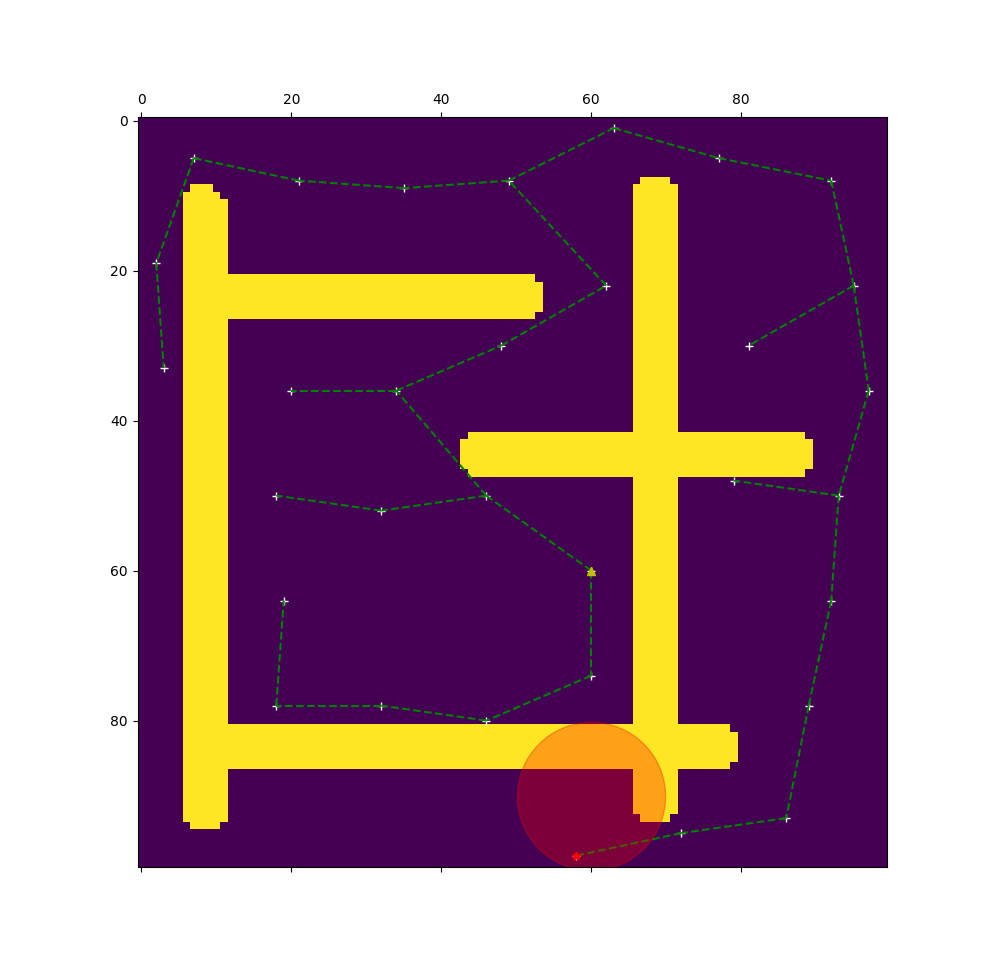
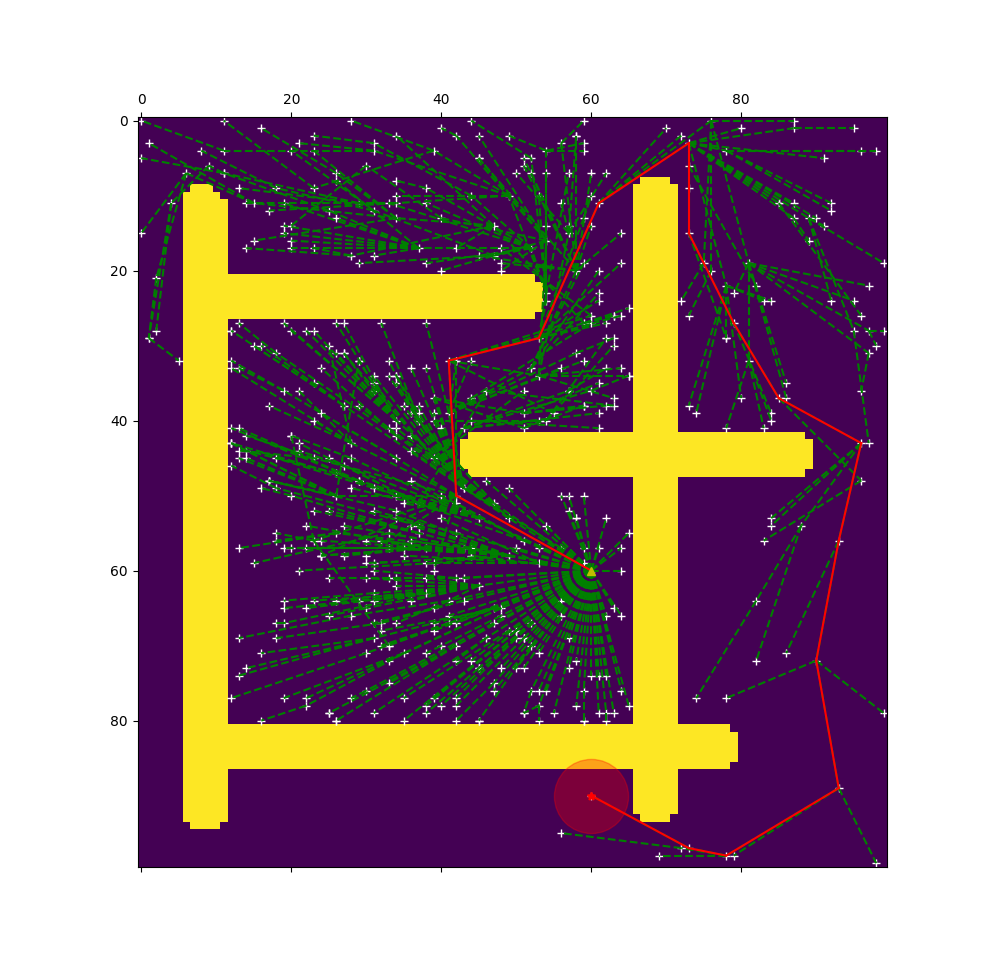
Everything working, need to cross check results

diff --git a/Lab4/RRT.py b/Lab4/RRT.py
@@ -19,8 +19,7 @@ class RRT:
     def distance(self, node1, node2):
         return math.sqrt((node2.coord[0] - node1.coord[0])**2 + (node2.coord[1] - node1.coord[1])**2)
 
-    def get_pixels_between_points(self,point1, point2): ##accepts coords
-
+    def get_pixels_between_points(self, point1, point2):  # Accepts coords
         collision = False
         num_steps = max(abs(point2[0] - point1[0]), abs(point2[1] - point1[1])) + 1
 
@@ -31,27 +30,22 @@ class RRT:
         # Combine x and y into pixel coordinates
         pixels = list(zip(np.round(x_values).astype(int), np.round(y_values).astype(int)))
         q_nodes = []
-        for i,p in enumerate(pixels):
-            if self.map.grid[p]!=0:
-                collision= True
+
+        for i, p in enumerate(pixels):
+            if 0 <= p[0] < self.map.grid.shape[0] and 0 <= p[1] < self.map.grid.shape[1]:
+                if self.map.grid[p] != 0:
+                    collision = True
+                    del pixels[i:]
+                    return collision, q_nodes
+            else:
+                collision = True  # Out-of-bounds considered as collision
                 del pixels[i:]
-                return collision,q_nodes
-            if(i+1)% self.step_size==0:
+                return collision, q_nodes
+
+            if (i + 1) % self.step_size == 0:
                 q_nodes.append(p)
 
-        return collision,q_nodes
-    
-    def draw_path(self,path,random_node,color='b',show=False):
-        path = list(zip(*path))
-        plt.matshow(self.map.grid, origin='upper')
-        plt.scatter(path[1], path[0], s=50, marker=".", c=color)
-        if show:
-            plt.scatter(random_node[1], random_node[0], c="w",s=30, marker="o")
-            plt.scatter(self.goal.y, self.goal.x, c="r", marker=(5, 1))
-            plt.scatter(self.start.y, self.start.x, s=50, marker="^", c="y")
-            plt.colorbar()
-            plt.show()
-        
+        return collision, q_nodes
 
     def get_random_node(self,p):
         if random.random() < p:
@@ -83,23 +77,47 @@ class RRT:
                 # self.map.plot(states=self.tree,edges=self.get_edges(self.tree),path=[],goal=self.goal.coord,goal_threshold=self.goal_threshold)
                 return self.tree, self.get_edges(self.tree)
         return None, None
-########################################Testing#####################################################
-    # def cost_optim(self,path,random_node):
-    #     for n in path:
-    #         new_node = Node(n[0],n[1]) 
-    #         nearest = self.nearest_node(random_node)
-    #         new_node.parent = nearest
-    #         self.tree.append(new_node)
-    #         if self.distance(new_node, self.goal) <= self.goal_threshold:
-    #             print("Goal reached")
-    #             # self.map.plot(states=self.tree,edges=self.get_edges(self.tree),path=[],goal=self.goal.coord,goal_threshold=self.goal_threshold)
-    #             return self.tree, self.get_edges(self.tree)
-    #     return None, None
-########################################Testing#####################################################
+    
     def cost_optim(self):
-        """
-        Optimized RRT* implementation for cost minimization.
-        """
+        
+        self.Cost[self.start.coord] = 0   
+        self.start.g = 0  
+        for _ in range(self.max_iter):
+            # Sample a random node
+            random_node = self.get_random_node(0.2)
+
+            # Find the nearest node in the tree
+            nearest = self.nearest_node(random_node)
+
+            # Steer towards the random node and check for collision
+            qnew = self.new_config(nearest, random_node, self.step_size)
+            collision, _ = self.get_pixels_between_points(qnew.coord, nearest.coord)
+            if collision:
+                continue  # Skip if the path is not collision-free
+
+            # Initialize the cost of the new node
+            qnew.g = nearest.g + self.distance(nearest, qnew)
+            qnew.parent = nearest
+
+            # Check for a better parent (cost optimization)
+            for node in self.tree:
+                if node is not qnew.parent and self.distance(node, qnew) <= self.step_size:
+                    collision, _ = self.get_pixels_between_points(node.coord, qnew.coord)
+                    if not collision and node.g + self.distance(node, qnew) < qnew.g:
+                        qnew.g = node.g + self.distance(node, qnew)
+                        qnew.parent = node
+
+            # Add the new node to the tree
+            self.tree.append(qnew)
+
+            # Check if the goal is reached
+            if self.distance(qnew, self.goal) <= self.goal_threshold:
+                print("Goal reached")
+                return self.tree, self.get_edges(self.tree)
+
+        raise AssertionError("Path not found\n")
+
+    def rewire(self):
         self.Cost[self.start.coord] = 0  # Set cost of the start node to 0
         self.start.g = 0  # Initialize g value for the start node
 
@@ -111,52 +129,43 @@ class RRT:
             nearest = self.nearest_node(random_node)
 
             # 3. Steer towards the random node and check for collision
-            collision, path = self.get_pixels_between_points(nearest.coord, random_node.coord)
+            qnew = self.new_config(nearest, random_node, self.step_size)
+            collision, _ = self.get_pixels_between_points(qnew.coord, nearest.coord)
             if collision:
                 continue  # Skip if the path is not collision-free
 
-            for n in path:
-                new_node = Node(n[0], n[1])
-                nearest = self.nearest_node(random_node)
-                new_node.parent = nearest
-                # Compute the cost of reaching the new node
-                new_cost = self.Cost[nearest.coord] + self.distance(nearest, new_node)
+            # 4. Initialize the cost of the new node
+            qnew.g = nearest.g + self.distance(nearest, qnew)
+            qnew.parent = nearest
 
-                # Update if this path is better
-                if new_node.coord not in self.Cost or new_cost < self.Cost[new_node.coord]:
-                    self.Cost[new_node.coord] = new_cost
-                    self.tree.append(new_node)
-                    # self.map.plot(states=self.tree,edges=self.get_edges(self.tree),path=[],goal=self.goal.coord,goal_threshold=self.goal_threshold)
-                    
-                    # 4. Check if the goal is reached
-                    if self.distance(new_node, self.goal) <= self.goal_threshold:
-                        print("Goal reached")
-                        return self.tree, self.get_edges(self.tree)
-                    # 5. Rewire the tree self
-                    self.rewire(new_node)
-                    # self.map.plot(states=self.tree,edges=self.get_edges(self.tree),path=[],goal=self.goal.coord,goal_threshold=self.goal_threshold)
-                    
+            # 5. Check for a better parent (cost optimization)
+            for node in self.tree:
+                if node is not qnew.parent and self.distance(node, qnew) <= self.step_size:
+                    collision, _ = self.get_pixels_between_points(node.coord, qnew.coord)
+                    if not collision and node.g + self.distance(node, qnew) < qnew.g:
+                        qnew.g = node.g + self.distance(node, qnew)
+                        qnew.parent = node
+
+            # 6. Add the new node to the tree
+            self.tree.append(qnew)
+
+            # 7. Rewire the tree to ensure optimality
+         
+            for node in self.tree:
+                if node is not qnew and self.distance(node, qnew) <= self.step_size:
+                    collision, _ = self.get_pixels_between_points(qnew.coord, node.coord)
+                    if not collision and qnew.g + self.distance(qnew, node) < node.g:
+                        node.g = qnew.g + self.distance(qnew, node)
+                        qnew.parent = node
+                        # del self.tree[-1]
+                        self.tree.append(qnew)
+             
+            # 8. Check if the goal is reached
+            if self.distance(qnew, self.goal) <= self.goal_threshold:
+                print("Goal reached")
+                return self.tree, self.get_edges(self.tree)
+
         raise AssertionError("Path not found\n")
-
-    def rewire(self, new_node):
-        """
-        Rewire the tree to minimize the cost of the path to each node.
-        After adding a new node, check if any nearby nodes can be connected to it 
-        to provide a lower-cost path.
-        """
-        neighbors = self.find_nearby_nodes(new_node)
-
-        for nearby_node in neighbors:
-            # Check if the path is collision-free
-            if not self.is_collision(new_node.coord, nearby_node.coord):
-                # Calculate the new cost to reach the nearby node through the new node
-                new_cost = self.Cost[new_node.coord] + self.distance(new_node, nearby_node)
-
-                # Check if the new cost is better
-                if new_cost < self.Cost[nearby_node.coord]:
-                    # Update the parent of the nearby node
-                    self.Cost[nearby_node.coord] = new_cost
-                    nearby_node.parent = new_node
 
     def rrt_star(self,node_expansion=False,cost_optim=False,rewire=False):
         self.Cost[self.start.coord] = 0  # Initialize cost of start node
@@ -171,20 +180,19 @@ class RRT:
                 return node,edges
             
         for _ in range(self.max_iter):
-            # 1. Sample a random node
+            # Sample a random node
             random_node = self.get_random_node(0.2) 
 
-            # 2. Find the nearest node in the tree
+            #Find the nearest node in the tree
             nearest = self.nearest_node(random_node)
             
-            # 3. Steer towards the random node and check for collision
+            # Steer towards the random node and check for collision
             _,path = self.get_pixels_between_points(nearest.coord, random_node.coord)
             
             if node_expansion:
                 node,edges= self.node_exp(path,random_node)
                 if edges:
                     return node,edges
-            
           
         raise AssertionError("Path not found\n")
 
@@ -199,22 +207,7 @@ class RRT:
                     parent = n
                     min_cost = cost
         return parent, min_cost
-########################################Testing#####################################################
-    # def rewire(self, neighbors, new_node):
-    #     print("Rewiring nodes...")
-    #     for neighbor in neighbors:
-    #         new_cost = self.Cost[neighbor.coord] + self.distance(new_node, neighbor)
-    #         print(f"Checking neighbor {neighbor.coord}")
-    #         print(f"Current cost: {self.Cost[neighbor.coord]}, New cost: {new_cost}")
-    #         print(f"Collision: {self.is_collision(new_node.coord, neighbor.coord)}")
-
-    #         if self.Cost[new_node.coord]<new_cost and not self.is_collision(new_node.coord, neighbor.coord):
-    #             print(f"Rewiring neighbor {neighbor.coord} to new parent {new_node.coord}")
-    #             new_node.parent = neighbor
-    #             self.Cost[new_node.coord] = new_cost
-    #             return new_node
-########################################Testing#####################################################
-
+    
     def get_edges(self,nodes):
         edges = []
         for node in nodes:

diff --git a/Lab4/Lab4.py b/Lab4/Lab4.py
@@ -7,7 +7,11 @@ if __name__ == "__main__":
     
 
     # Choose a map 0-3
-    map_number = 0
+    map_number = 1
+    goal_threshold = 5
+    max_iter=10000
+    step_size=10
+    search_radius=20
 
     # Assign goal and start coordinates for each map
     if map_number == 0:
@@ -23,15 +27,15 @@ if __name__ == "__main__":
     elif map_number == 3:
         goal = Node(375, 375)
         start = Node(50, 90)
-     
+        step_size=40           #PERFORM WELL AT STEPSIZE 40
+    
     grid = Map(map_number)
-    goal_threshold = 10
 
     rrt = RRT(start=start, goal=goal,map=grid,goal_threshold=goal_threshold,
-              max_iter=10000,step_size=5,search_radius=10)
+              max_iter=max_iter,step_size=step_size,search_radius=search_radius)
     try:
-        # nodes,edges = rrt.rrt_star(node_expansion=False,cost_optim=True,rewire=True)
-        nodes,edges = rrt.rrt(smooth_path=True) 
+        nodes,edges = rrt.rrt_star(node_expansion=False,cost_optim=False,rewire=True)
+        # nodes,edges = rrt.rrt(smooth_path=False) 
         _,_,path=grid.fill_path(nodes, edges)
         grid.plot(states=nodes,edges=edges,path=path,goal=goal.coord,goal_threshold=goal_threshold)
     except AssertionError as e:

diff --git a/Lab4/Map.py b/Lab4/Map.py
@@ -24,7 +24,7 @@ class Map():
         """
         try:
             # Load the image maps Lab4/maps/map3.png
-            image = Image.open(f"Lab4/maps/map{self.map_number}.png").convert('L')
+            image = Image.open(f"maps/map{self.map_number}.png").convert('L')
         except FileNotFoundError:
             print(f"Map file 'map{self.map_number}.png' not found.")
             return None
